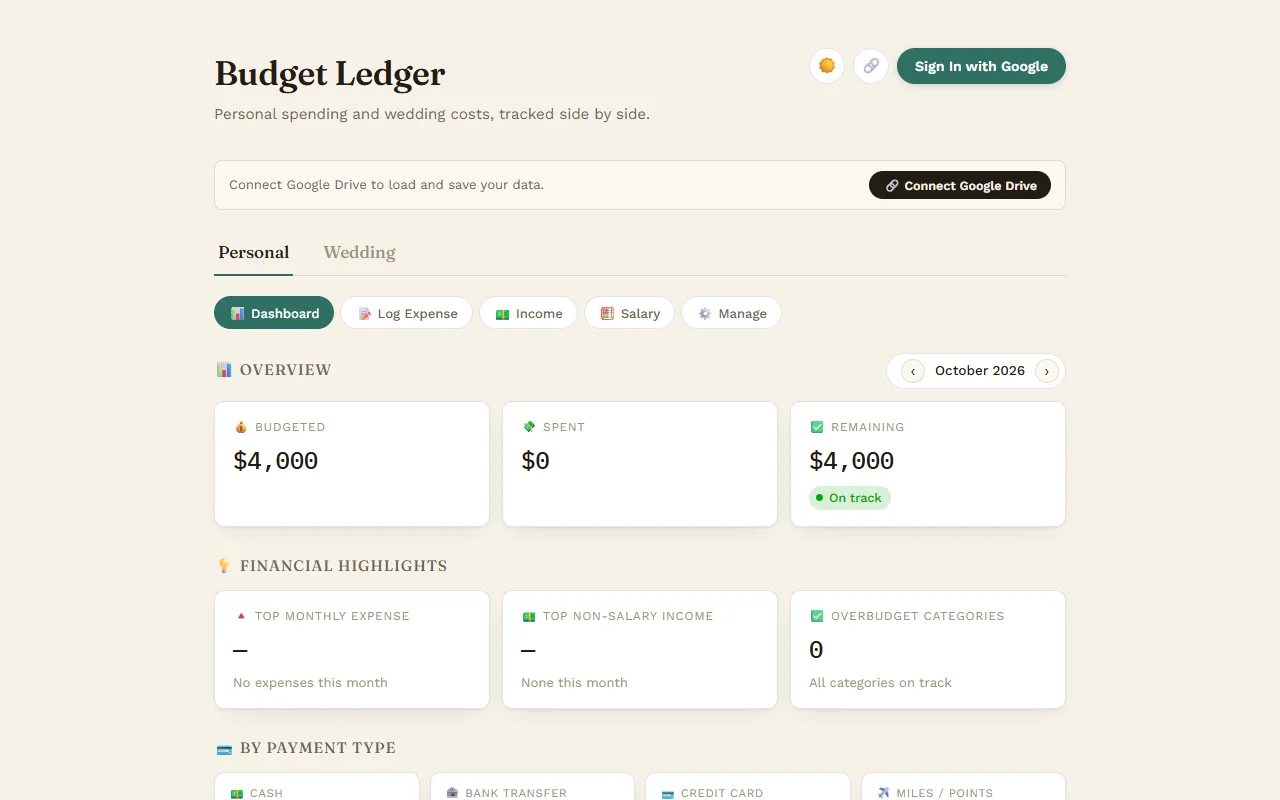
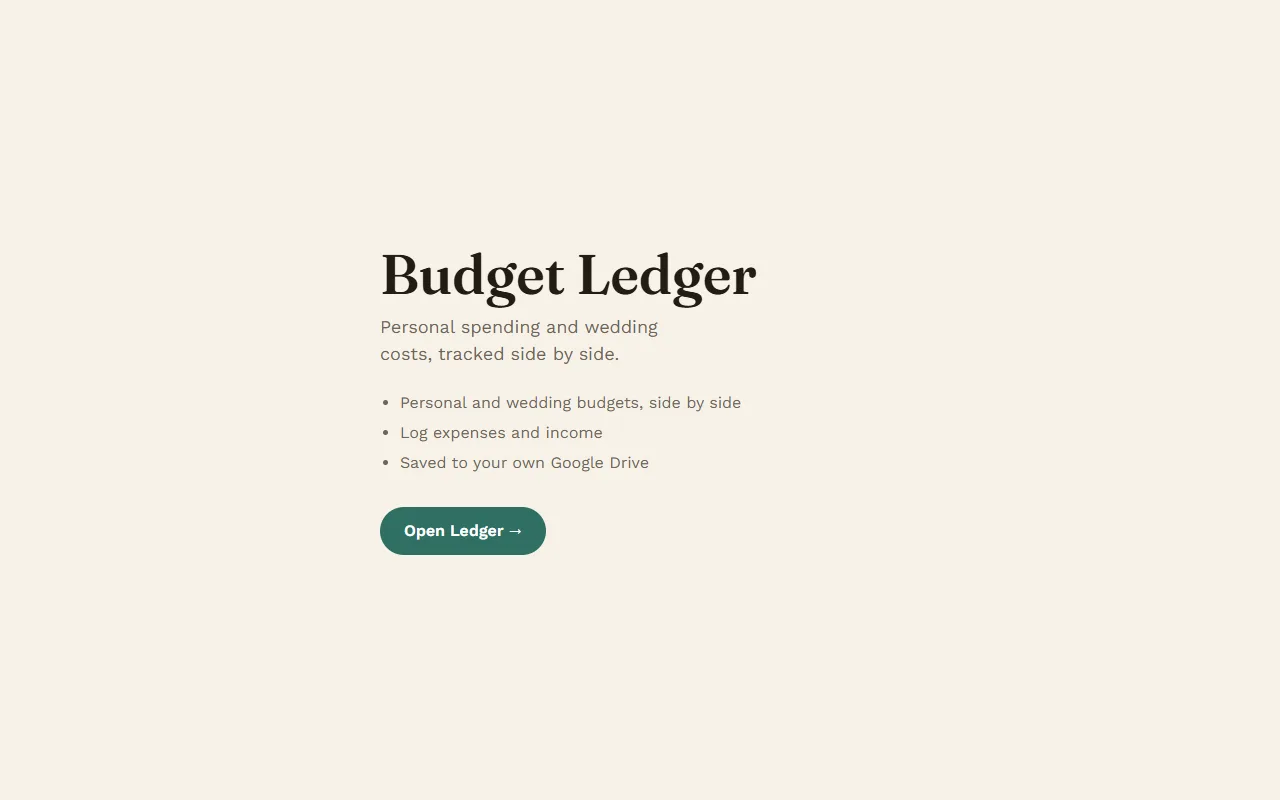
Budget Ledger: open on its cover page, preview shows the cover
Open App and the project page now link to /my-budget-ledger/cover.html.
The preview image was a dashboard screenshot with numbers in it; it is
now the cover page, which matches its "cover page" alt text.

diff --git a/js/projects.js b/js/projects.js
@@ -117,7 +117,7 @@ export const projects = [
       'Smarter categories for imported expenses',
     ],
     tags: ['HTML', 'Google Drive', 'Charts'],
-    url: '/my-budget-ledger/',
+    url: '/my-budget-ledger/cover.html',
     code: 'https://github.com/billywall732/my-budget-ledger',
     image: '/img/budget-ledger.webp',
   },
